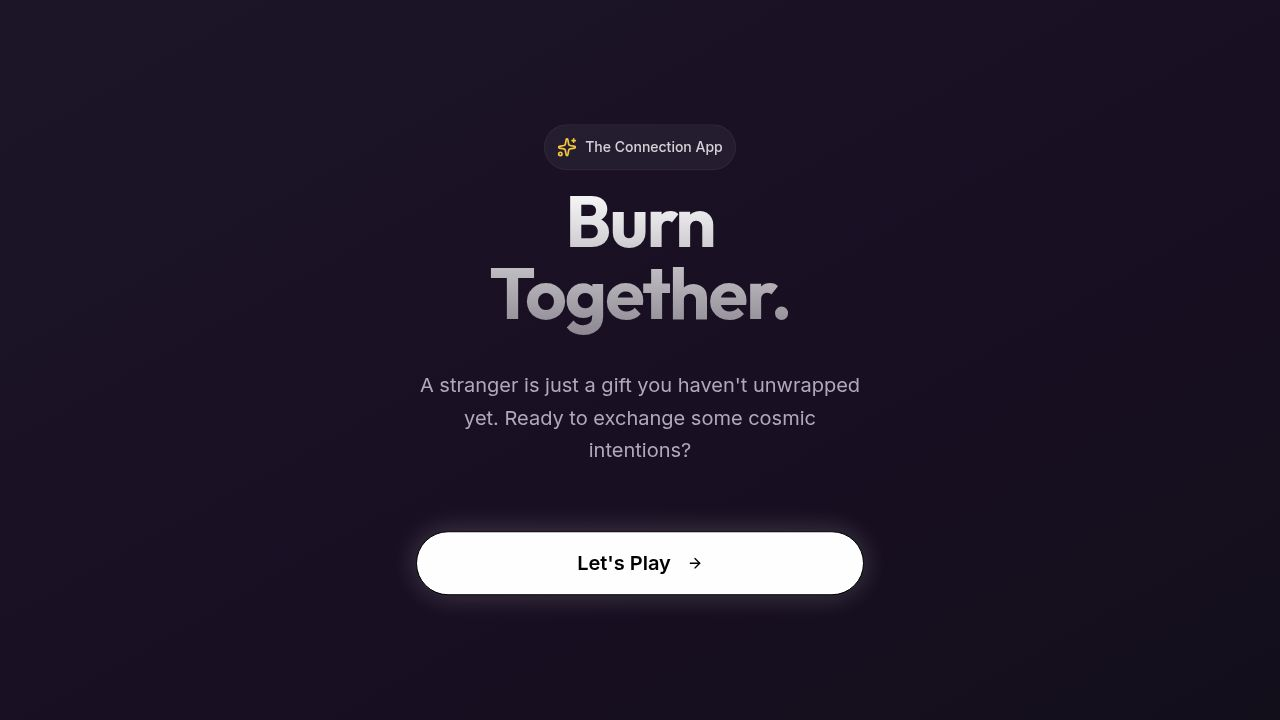
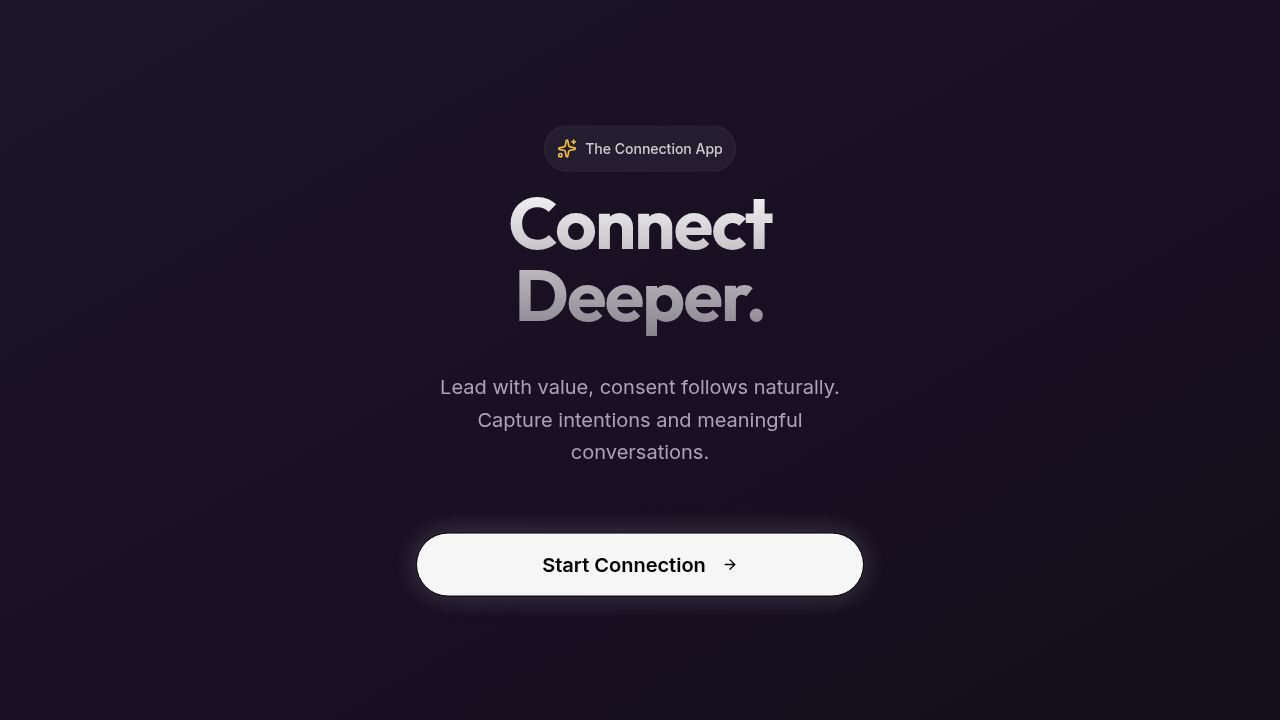
Restored to '40b93ad54330534e1a1c6afaaff24a1087e26f25'
Replit-Restored-To: 40b93ad54330534e1a1c6afaaff24a1087e26f25

diff --git a/client/src/lib/questions.ts b/client/src/lib/questions.ts
@@ -2,19 +2,19 @@ export type VibeLevel = 'light' | 'middle' | 'deep';
 
 export const QUESTIONS: Record<VibeLevel, string[]> = {
   light: [
-    "What magic do you want more of in 2026?",
-    "What's the weirdest thing that makes you feel alive?",
-    "What gift can you give me right now that money can't buy?"
+    "What do you need more of in 2026?",
+    "What's something about you that would surprise me?",
+    "What gift could you give me right now that costs nothing?"
   ],
   middle: [
-    "If 2026 was your masterpiece, what would it look like?",
-    "What beautiful risk is calling your name this year?",
-    "When we meet again on the playa, what will we remember about this moment?"
+    "What would make 2026 your best year yet?",
+    "What's a risk you want to take this year?",
+    "What do you hope we both remember from this conversation?"
   ],
   deep: [
-    "What sacred fire needs to burn for your intention to rise from the ashes?",
-    "What are you finally ready to release into the desert wind?",
-    "What truth do you need to hear that no one has been brave enough to tell you?"
+    "What needs to change in your life for that intention to happen?",
+    "What are you ready to let go of?",
+    "What do you need to hear right now that you haven't heard enough?"
   ]
 };
 

diff --git a/client/src/pages/ConsentVibe.tsx b/client/src/pages/ConsentVibe.tsx
@@ -69,9 +69,9 @@ export default function ConsentVibe() {
         className="w-full space-y-10"
       >
         <div className="text-center space-y-4">
-          <h1 className="text-4xl font-bold text-white">Choose Your Adventure</h1>
+          <h1 className="text-4xl font-bold text-white">Ready to go deeper?</h1>
           <p className="text-lg text-muted-foreground leading-relaxed">
-            How deep do you want to go? We're about to record some magic. Your words, your consent, your journey.
+            We'll record a 3-minute conversation. Your words stay private unless you choose to share them.
           </p>
         </div>
 
@@ -109,7 +109,7 @@ export default function ConsentVibe() {
               </>
             ) : (
               <>
-                I'm Ready <Mic className="ml-3 w-6 h-6" />
+                Let's Connect <Mic className="ml-3 w-6 h-6" />
               </>
             )}
           </Button>
@@ -120,7 +120,7 @@ export default function ConsentVibe() {
             disabled={isSaving}
             className="w-full text-muted-foreground hover:text-white"
           >
-            Maybe next sunrise
+            Not this time
           </Button>
         </div>
       </motion.div>

diff --git a/client/src/pages/Home.tsx b/client/src/pages/Home.tsx
@@ -23,11 +23,11 @@ export default function Home() {
             </div>
 
             <h1 className="text-5xl md:text-7xl font-bold tracking-tighter bg-clip-text text-transparent bg-gradient-to-b from-white to-white/50 pb-2">
-                Burn<br/>Together.
+                Connect<br/>Deeper.
             </h1>
 
             <p className="text-xl text-muted-foreground leading-relaxed">
-                A stranger is just a gift you haven't unwrapped yet. Ready to exchange some cosmic intentions?
+                Lead with value, consent follows naturally. Capture intentions and meaningful conversations.
             </p>
 
             <div className="pt-8">
@@ -35,7 +35,7 @@ export default function Home() {
                     onClick={() => setLocation("/capture")}
                     className="w-full h-16 text-xl font-semibold bg-white text-black hover:bg-white/90 hover:scale-[1.02] transition-all rounded-full shadow-[0_0_30px_rgba(255,255,255,0.2)]"
                 >
-                    Let's Play <ArrowRight className="ml-2 w-6 h-6" />
+                    Start Connection <ArrowRight className="ml-2 w-6 h-6" />
                 </Button>
             </div>
         </motion.div>

diff --git a/client/src/pages/IntentionCapture.tsx b/client/src/pages/IntentionCapture.tsx
@@ -101,12 +101,12 @@ export default function IntentionCapture() {
       >
         <div className="text-center space-y-2">
           <h1 className="text-4xl font-bold bg-clip-text text-transparent bg-gradient-to-r from-white to-white/70">
-            What's Your 2026 Offering?
+            2026 Intention
           </h1>
           <p className="text-muted-foreground">
             {isSpeechSupported 
-              ? "Whisper it, scream it, or type it. The playa wants to know your wildest intention." 
-              : "The playa wants to know your wildest intention for the year ahead."}
+              ? "Speak or type what matters most for the year ahead." 
+              : "Type what matters most for the year ahead."}
           </p>
         </div>
 

diff --git a/client/src/pages/Recording.tsx b/client/src/pages/Recording.tsx
@@ -126,7 +126,7 @@ export default function Recording() {
               {questions[currentQuestionIndex]}
             </h2>
             <p className="text-lg text-white/50 italic font-light">
-              Take turns, speak from the heart, then pass the torch
+              Both share, then tap Next
             </p>
           </motion.div>
         </AnimatePresence>
